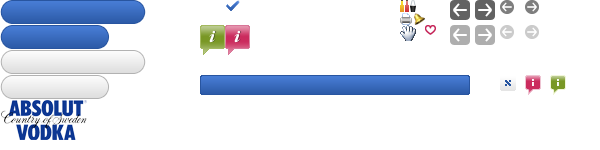
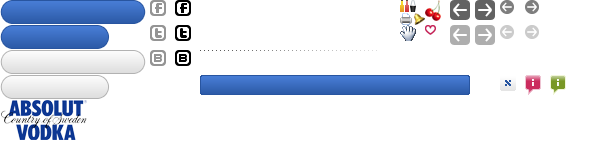
update academy

diff --git a/htdocs/t/branding/2011.01-academy/branding.css b/htdocs/t/branding/2011.01-academy/branding.css
@@ -12,19 +12,39 @@
 .b-more-cocktails .next,
 .cocktail-list .prev,
 .cocktail-list .next,
-button.rounded { background-repeat: no-repeat; background-image: url(common.png); }
+button.rounded,
+.common-share-box .button i { background-repeat: no-repeat; background-image: url(common.png); }
 #spotlighted i { position: absolute; width: 88px; height: 42px; right: 10px; top: 6px; }
-#common-footer .alcohol-harm { background-repeat: no-repeat; background-image: url(alcohol-harm.png); }
 #branded-image { background-repeat: no-repeat; background-image: url(image.png); width: 500px; height: 520px; top: 20px; left: 140px; cursor: default; }
-#branded-image-holder { height: 780px; position: absolute; top: 85px; bottom: auto; }
+#branded-image-holder { height: 1000px; position: absolute; top: 85px; bottom: auto; }
 html.float-fixed #branded-image-holder { position: fixed; top: 0; bottom: auto; }
 html.stick-bottom #branded-image-holder { top: auto; bottom: 0; }
 a { color: #2e63c1; }
-#common-footer { color: #888; }
-#common-footer .link { color: #2e63c1; }
 html { background: #fff url(bg.png) repeat-x center 60px; }
-button.rounded b { text-shadow: 1px 1px 0 #000; color: #fff; }
-button.strong b { text-shadow: 1px 1px 0 #ccc; color: #000; }
+html.branding-short { background: url(bg-short.png) repeat-x 0 65px #fff; }
+button.rounded b,
+button.strong b { text-shadow: 1px 1px 1px rgba(0,0,0,0.4); }
+button.rounded b { color: #fff; }
+button.strong b { color: #000; }
+
+
+/* footer */
+#common-footer { color: #565656; }
+#common-footer a { color: inherit; }
+#common-footer a:hover { color: #000; }
+#common-footer .index { border-bottom: solid 1px #ededed; }
+#common-footer .index .theme .head { color: #323232; }
+#common-footer .index .theme .head:after { background-image: url(common.png); }
+#common-footer .bottom { background-color: #f8f8f8; }
+#common-footer .alcohol-harm { background-image: url(alcohol-harm.png); }
+html.magazine-section #common-footer .bottom { background: none; }
+
+html.barmen-section #common-footer .about-menu .link.barmen,
+html.job-section #common-footer .link.job,
+html.about-page #common-footer .link.about,
+html.cocktail-groups-section #common-footer .about-menu .link.cocktail-groups
+{ color: #000; cursor: default; text-decoration: none !important; }
+
 
 /* calculator.css */
 #b-bill dt,
